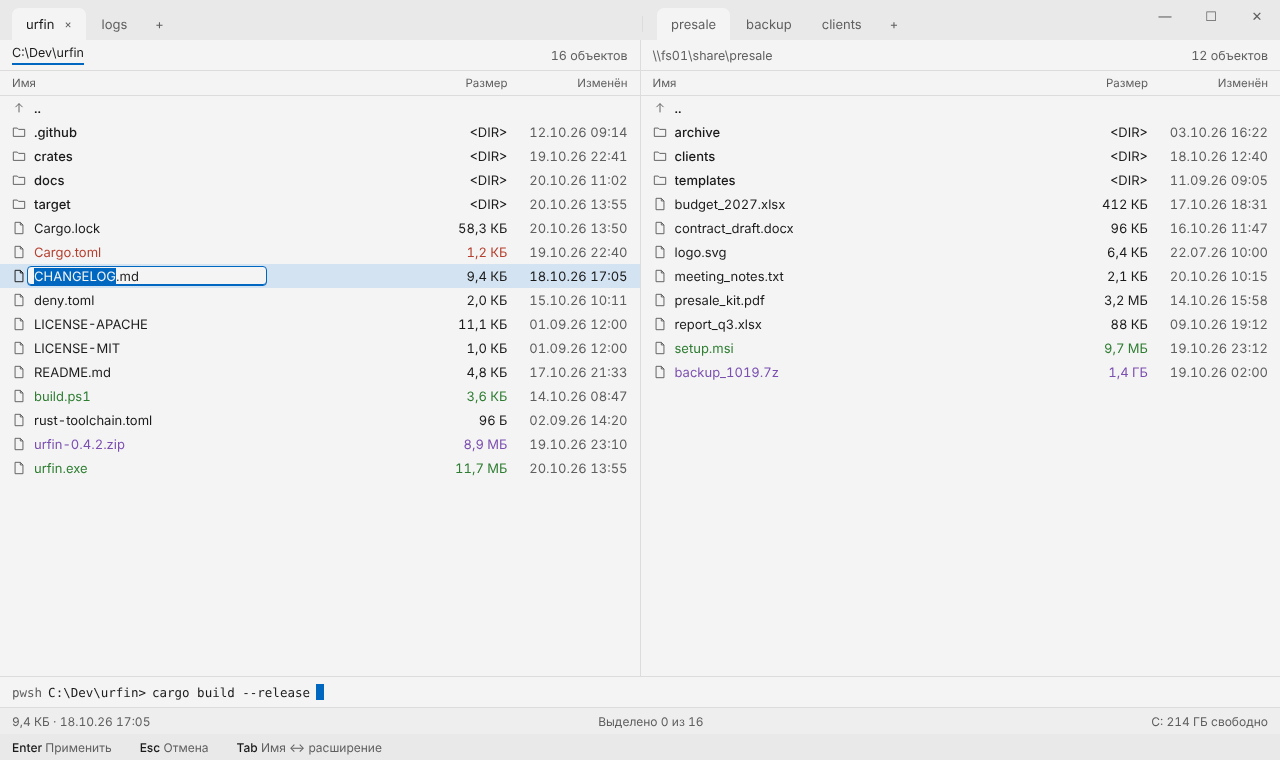
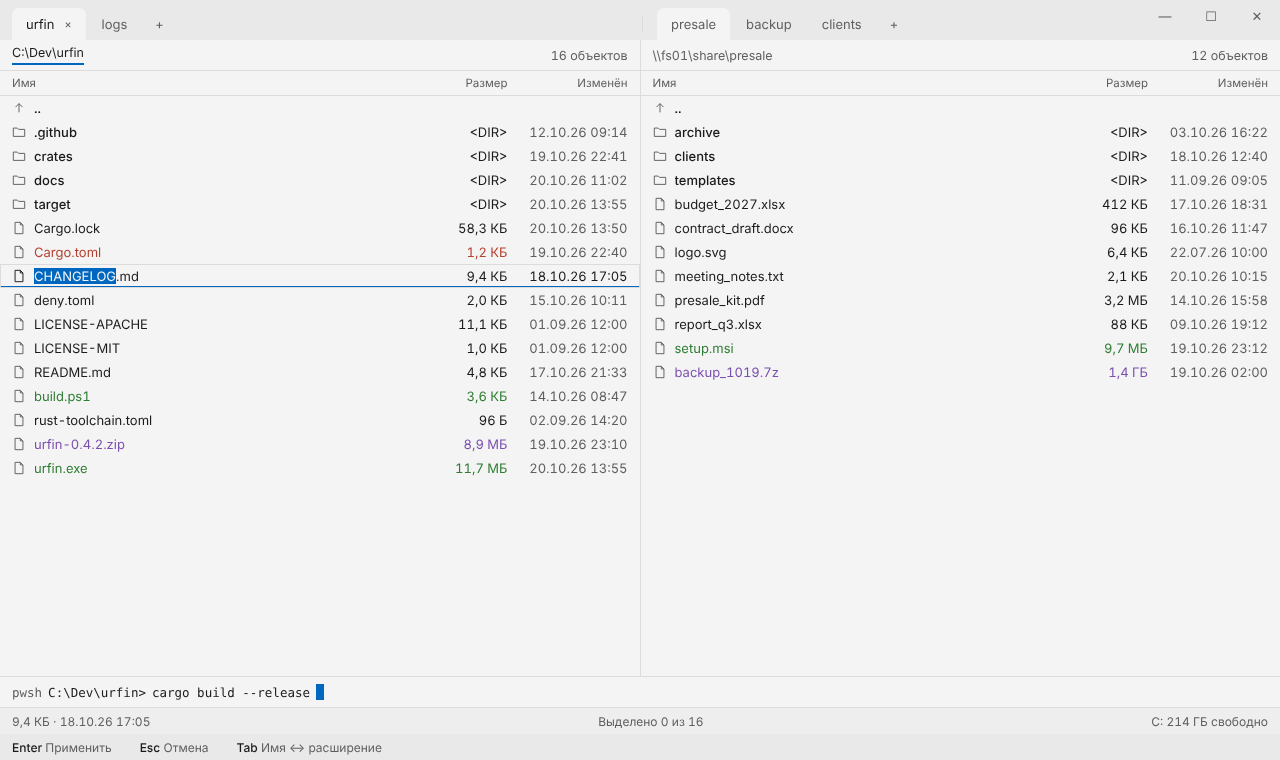
design: Shift+F6 — the cursor row itself is the field, no extra box
Claude-Session: https://claude.ai/code/session_013ZpcYnbJMYkHW4aMDDmFTq

Changed region(s): [[0.0, 0.3329, 0.5, 0.3934]]

diff --git a/docs/design/window.dc.html b/docs/design/window.dc.html
@@ -139,7 +139,7 @@ body{margin:0}
 <sc-if value="{{r.isFile}}" hint-placeholder-val="{{ true }}"><svg width="14" height="14" viewBox="0 0 16 16" aria-hidden="true"><path d="M3.5 1.5h6l3 3v10h-9z M9.5 1.5v3h3" fill="none" stroke="currentColor" stroke-width="1.1"></path></svg></sc-if>
 </span>
 </sc-if>
-<sc-if value="{{r.mvEdit}}" hint-placeholder-val="{{ false }}"><span role="textbox" aria-label="Новое имя" style="{{mvBox}}"><span style="{{mvSel}}">{{r.mvBase}}</span><span>{{r.mvExt}}</span></span></sc-if><span style="overflow: hidden; text-overflow: ellipsis">{{r.n1}}<span style="{{r.hlStyle}}">{{r.n2}}</span>{{r.n3}}</span><sc-if value="{{r.renameTo}}" hint-placeholder-val="{{ false }}"><span style="color: {{t.s}}; font-weight: 400">→</span><span style="{{r.toStyle}}">{{r.renameTo}}</span></sc-if><sc-if value="{{r.tag}}" hint-placeholder-val="{{ false }}"><span style="{{r.tagStyle}}">{{r.tag}}</span></sc-if>
+<sc-if value="{{r.mvEdit}}" hint-placeholder-val="{{ false }}"><span role="textbox" aria-label="Новое имя" style="{{mvBox}}"><span style="{{mvSel}}">{{r.mvBase}}</span><span>{{r.mvExt}}</span><span style="{{mvCaret}}"></span></span></sc-if><span style="overflow: hidden; text-overflow: ellipsis">{{r.n1}}<span style="{{r.hlStyle}}">{{r.n2}}</span>{{r.n3}}</span><sc-if value="{{r.renameTo}}" hint-placeholder-val="{{ false }}"><span style="color: {{t.s}}; font-weight: 400">→</span><span style="{{r.toStyle}}">{{r.renameTo}}</span></sc-if><sc-if value="{{r.tag}}" hint-placeholder-val="{{ false }}"><span style="{{r.tagStyle}}">{{r.tag}}</span></sc-if>
 </span>
 <span style="width: 92px; text-align: right">{{r.size}}</span>
 <sc-if value="{{pn.packedCol}}" hint-placeholder-val="{{ false }}"><span style="width: 80px; text-align: right; color: {{r.dateColor}}">{{r.packed}}</span></sc-if>
@@ -776,7 +776,7 @@ hlStyle: "background: " + t.hl + "; color: " + t.t + "; border-radius: 2px",
 isUp: kind === "up", isDir: kind === "d", isFile: kind !== "up" && kind !== "d",
 weight: (kind === "d" || kind === "up" || isM) ? 500 : 400,
 iconColor: iconCol, dateColor: isC ? t.ct : t.s,
-rowStyle: "height: " + rowH + "px; display: flex; align-items: center; padding: 0 12px; background: " + (isC ? t.c : "transparent") + "; color: " + col + (isM ? "; box-shadow: inset 3px 0 0 " + t.a : ""),
+rowStyle: "height: " + rowH + "px; display: flex; align-items: center; padding: 0 12px; background: " + (screen === "rename" && isC ? t.p + "; box-shadow: inset 0 0 0 1px " + t.b + ", inset 0 -2px 0 " + t.a : (isC ? t.c : "transparent") + (isM ? "; box-shadow: inset 3px 0 0 " + t.a : "")) + "; color: " + col,
 briefStyle: "height: " + rowH + "px; display: flex; align-items: center; gap: 8px; padding: 0 10px; overflow: hidden; white-space: nowrap; font-weight: " + ((kind === "d" || kind === "up") ? 500 : 400) + "; background: " + (isC ? t.c : "transparent") + "; color: " + col + (isM ? "; box-shadow: inset 3px 0 0 " + t.a : "")
 };
 });
@@ -1105,8 +1105,8 @@ mvIsMkdir: screen === "mkdir" || screen === "mkdirtree", mvTree: screen === "mkd
 mvMkVal: screen === "mkdirtree" ? "design\\screens; notes\\2026-10" : "release-notes", mvMkW: "260px",
 mvTreeRows: [["design",0,false],["screens",1,true],["notes",0,true],["2026-10",1,true]].map(([n, d, nw]) => ({ n, pad: (d * 18) + "px", ic: nw ? t.a : t.s, st: nw ? "font-weight: 500" : "color: " + t.s, note: nw ? "новая" : "есть" })),
 mvIsMove: screen === "move",
-mvBox: "height: " + (rowH - 4) + "px; box-sizing: border-box; width: 240px; margin-left: -7px; padding: 0 6px; display: inline-flex; align-items: center; border: 1px solid " + t.a + "; border-radius: 4px; background: " + t.p + "; color: " + t.t + "; font-weight: 400; box-shadow: inset 0 -1px 0 " + t.a,
-mvSel: "background: " + t.a + "; color: " + t.p,
+mvBox: "display: inline-flex; align-items: center; color: " + t.t + "; font-weight: 400; white-space: pre",
+mvSel: "background: " + t.a + "; color: " + t.p, mvCaret: "display: none",
 atOn: screen === "attrs", atFlags, atNest, atDates, isCopy, isSearch: screen === "search", isViewer: screen === "viewer", isEditor: screen === "editor", isSettings: screen === "settings",
 showCli: ["panels","bookmarks","history","sort","filter","filtered","attrs","mkdir","mkdirtree","move","rename","journal","multirename","compare","terminal","termhalf","menu","context","select","quick","archive","errors","brief","tree","info","quickview","drives","copy","delete","conflict","progress","search"].indexOf(screen) >= 0,
 showToast: screen === "panels", isCmp: screen === "compare",

diff --git a/docs/design/DESIGN.md b/docs/design/DESIGN.md
@@ -65,7 +65,7 @@
 | `screen-mkdir.png` | F7: строка внизу активной панели (фон `header`, черта `accent`): иконка, «Новая папка», поле 260, «Создать Enter» / «Отмена Esc» сразу за полем; «Несколько через ;», вложенные через `\`; курсор виден | D-04 / S5 |
 | `screen-mkdirtree.png` | F7, если в имени есть `;` или `\`: под полем — превью дерева того, что будет создано (строки 22, отступ 18 на уровень): существующие папки `secondary` с пометкой «есть», новые — иконка `accent`, «новая»; строка растёт по высоте, поле остаётся однострочным; в статус-строке «Будет создано N папок» | D-04 / S5 |
 | `screen-move.png` | F6: строка на всю ширину по образцу F5 — «Перенести N · размер в» + путь, «Если файл есть», «Проверить хэш перед удалением исходных», Перенести (Enter) / В фоне (Shift+Enter) / Отмена | D-04 / S5 |
-| `screen-rename.png` | Shift+F6 на одном файле: имя в строке курсора становится полем (рамка `accent`, снизу 2), выделено имя без расширения; нижней строки нет; Tab — имя ↔ расширение | D-04 / S5 |
+| `screen-rename.png` | Shift+F6 на одном файле: вся строка курсора становится полем: фон `panel`, тонкая рамка `border`, снизу черта 2 `accent`; имя остаётся на своём месте, без отдельной рамки и сдвига; выделено имя без расширения (`accent`/`panel`); нижней строки нет; Tab — имя ↔ расширение | D-04 / S5 |
 | `screen-attrs.png` | Ctrl+A: строка в 3 ряда — «Атрибуты N объектов» + флажки R/H/S/A с третьим состоянием «—» (у части объектов, не менять); даты Создан/Изменён/Доступ, «разные» приглушённо, кнопка «сейчас» в поле; «Для вложенных» (неактивен без папок), Применить / Отмена | D-04 / S5 |
 | `screen-sort.png` | Ctrl+F12 / клик по заголовку: «мешочек», корешок — заголовок колонки со стрелкой направления; пункты по 28 с клавишами Ctrl+F3…F8, текущий ✓; переключатели «По убыванию», «Папки сверху» | D-05 |
 | `screen-filter.png`, `screen-filtered.png` | Ctrl+I: строка «Показывать» + маска, «совпадает N из M», «Скрывать папки», Применить / Сбросить / Отмена; после применения строки нет — **единственное** место фильтра — чип в заголовке панели «фильтр маска ×» (`cursor`/`accent`) и «N из M» | D-03 / D-04 |
